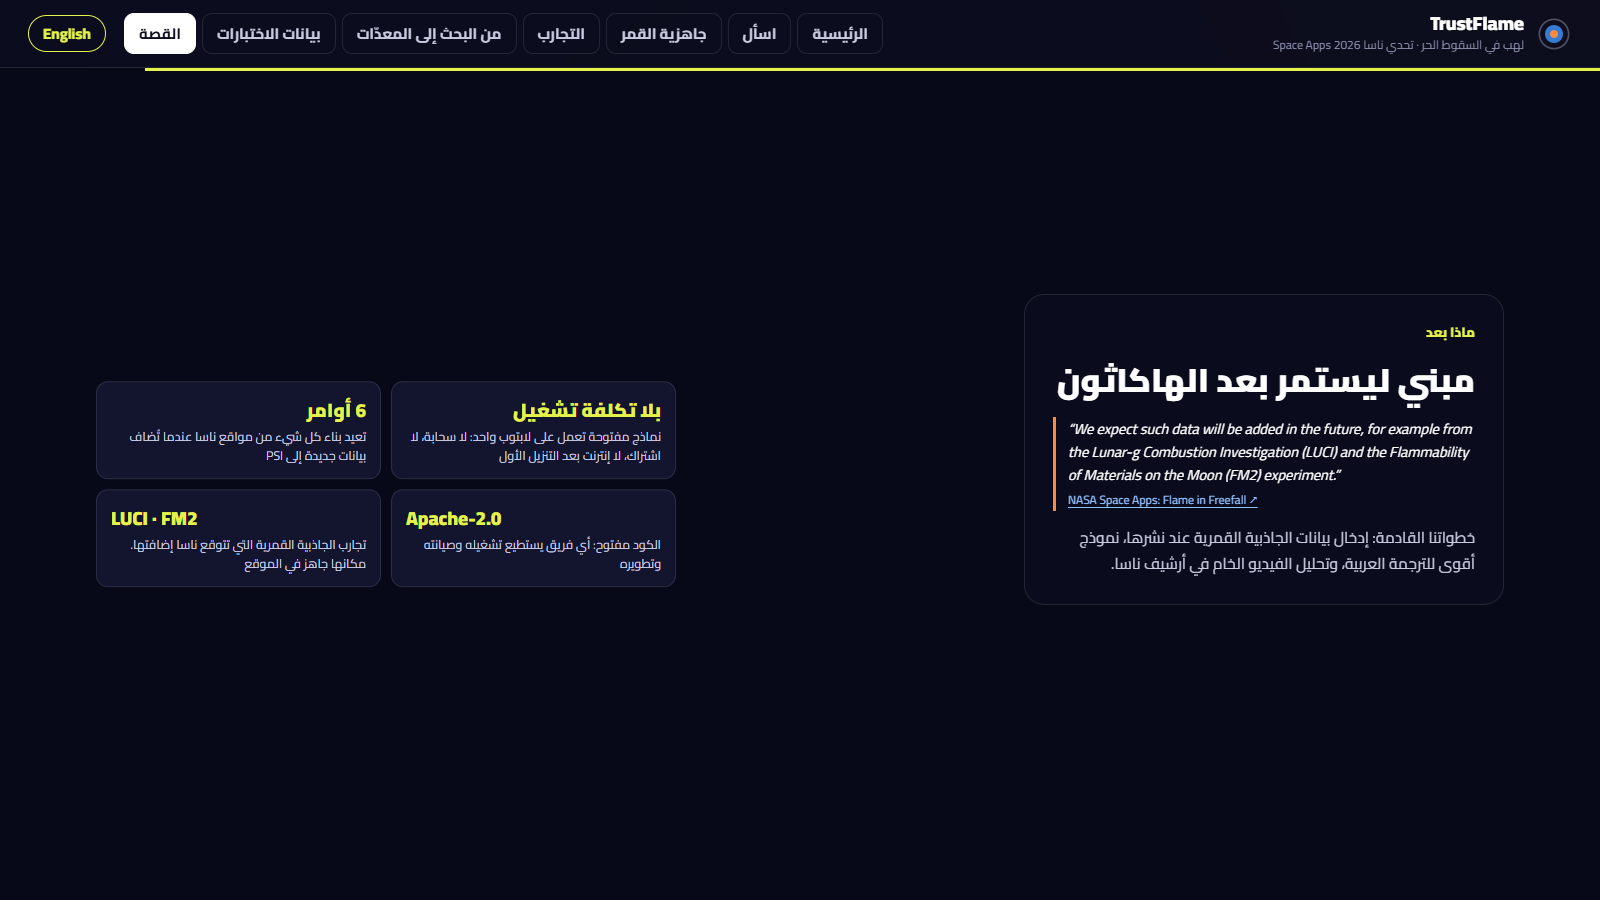
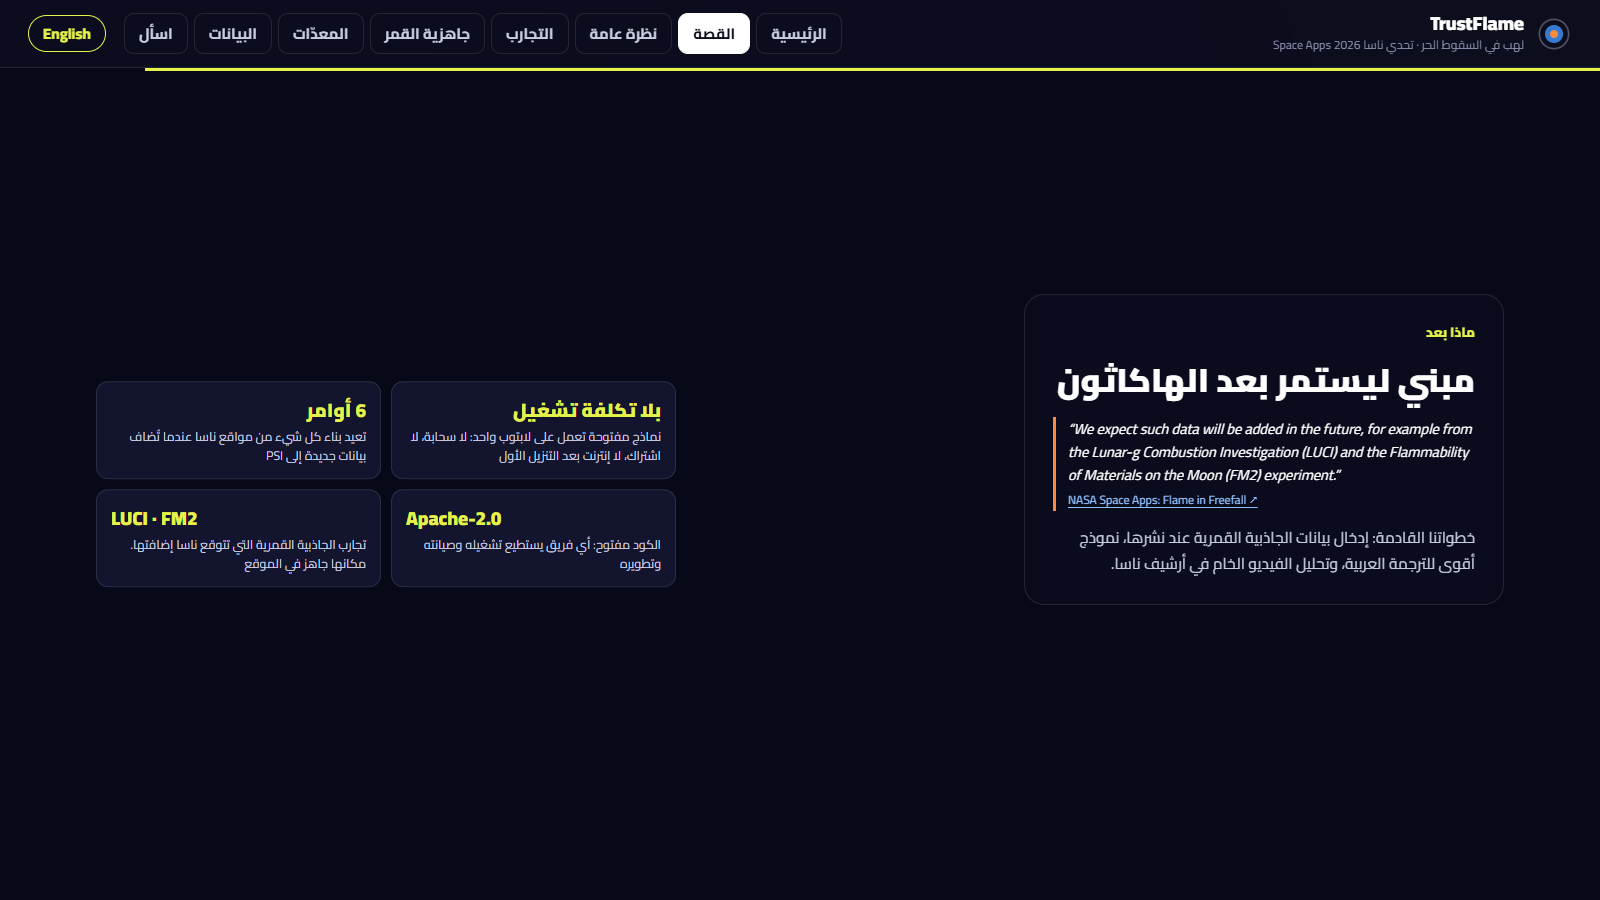
Simpler home page; tabs back in their earlier order
- home: one line ('a trusted search engine for NASA's space-fire archive'), the Ask box, three doors (compare, Moon readiness, Ask) and the test result
- tabs: Home, Story, Overview, Investigations, Moon readiness, Equipment, Data, Ask; shorter names so all fit

Changed region(s): [[0.0625, 0.0, 0.5625, 0.0622]]

diff --git a/web/home.js b/web/home.js
@@ -14,65 +14,33 @@ function askBox() {
   input.addEventListener("keydown", (e) => { if (e.key === "Enter") send(); });
   return h("div", { class: "home-ask" },
     h("div", { class: "home-ask-row" }, input, h("button", { class: "btn primary big", text: L("اسأل ناسا", "Ask NASA"), onclick: send })),
-    h("div", { class: "chips" }, SUGGEST[state.lang].slice(0, 4).map((q) => h("button", { class: "chip btn", text: q, onclick: () => askFromHome(q) }))));
+    h("div", { class: "chips" }, SUGGEST[state.lang].slice(0, 3).map((q) => h("button", { class: "chip btn", text: q, onclick: () => askFromHome(q) }))));
 }
 
 function render() {
   const root = document.getElementById("view-home");
-  const st = state.meta.stats;
   const solidMax = Math.max(...state.materials.filter((m) => m.phase === "solid" && m.o2_max != null).map((m) => m.o2_max));
   const evalTile = h("b", { class: "ltr", text: "…" });
-  const setEval = (e) => { evalTile.textContent = e && e.total ? `${e.passed} / ${e.total}` : "—"; };
+  const setEval = (e) => { evalTile.textContent = e && e.total ? `${e.passed}/${e.total}` : "—"; };
   if (evals) setEval(evals); else api("/api/eval").then((e) => { evals = e; setEval(e); }).catch(() => setEval(null));
-
-  const step = (n, title, text) => h("div", { class: "home-step" }, h("span", { class: "home-step-n ltr", text: String(n) }), h("div", {}, h("b", { text: title }), h("p", { text: text })));
-  const finding = (big, title, text, view, hot) => h("button", { class: "home-find" + (hot ? " hot" : ""), onclick: () => go(view) },
-    h("div", { class: "home-find-big ltr", text: big }), h("b", { text: title }), h("p", { text: text }), h("span", { class: "home-more", text: L("اعرف أكثر ←", "Learn more →") }));
-  const tile = (view, title, text) => h("button", { class: "home-tile", onclick: () => go(view) }, h("b", { text: title }), h("span", { text: text }));
+  const door = (n, view, title, text) => h("button", { class: "home-door", onclick: () => go(view) },
+    h("span", { class: "home-door-n ltr", text: String(n) }), h("b", { text: title }), h("span", { text: text }));
 
   mount(root,
-    // 1. the problem, in one line
     h("section", { class: "home-hero" },
       h("img", { class: "home-hero-img", src: "media/PSI-25_1.jpg", alt: "" }),
       h("div", { class: "home-hero-text" },
         h("div", { class: "kicker", text: L("تحدي ناسا Space Apps 2026 · لهب في السقوط الحر", "NASA Space Apps Challenge 2026 · Flame in Freefall") }),
-        h("h1", {}, L("القاعدة القمرية ستتنفس ", "A Moon base will breathe "), h("span", { class: "hot ltr", text: "30%" }), L(" أكسجين.", " oxygen."), h("br"),
-          L("ناسا اختبرت المواد حتى ", "NASA tested its materials only up to "), h("span", { class: "hot ltr", text: `${fmt(solidMax, 0)}%` }), L(" فقط.", ".")),
-        h("p", { class: "home-sub", text: L("النار تحب الأكسجين. وتجارب ناسا عن الحرائق كثيرة وصعبة البحث. TrustFlame يجعلها سهلة: اسأل بياناتها بلغتك، واحصل على جواب يفحص كل جملة وكل رقم.",
-          "Fire loves oxygen, and NASA's fire experiments are many and hard to search. TrustFlame makes them easy: ask NASA's data in your language and get an answer that checks every sentence and every number.") }),
+        h("h1", {}, L("محرّك بحث موثوق لأرشيف حرائق ناسا", "A trusted search engine for NASA's space-fire archive")),
+        h("p", { class: "home-sub", text: L(`${state.meta.stats.investigations} تجربة و${num0(state.meta.stats.test_rows)} اختبار عن النار في الفضاء، في مكان واحد. اسأل بلغتك، وكل جملة وكل رقم في الجواب يُفحص مقابل ملفات ناسا.`,
+          `${state.meta.stats.investigations} experiments and ${num0(state.meta.stats.test_rows)} tests on fire in space, in one place. Ask in your language; every sentence and number in the answer is checked against NASA's files.`) }),
         askBox()),
       h("div", { class: "home-credit ltr", text: "Photo: BASS-II flame test aboard the ISS, NASA PSI (PSI-25)" })),
-
-    // 2. how Ask works, in three steps
-    h("section", { class: "card home-how" },
-      h("h2", { text: L("كيف يجيب «اسأل»؟", "How does Ask answer?") }),
-      h("div", { class: "home-steps" },
-        step(1, L("يبحث في مصادر ناسا فقط", "Searches NASA's sources only"), L(`${st.investigations} تجربة و${num0(st.passages)} مقطعاً من نصوص ناسا.`, `${st.investigations} investigations and ${num0(st.passages)} passages of NASA text.`)),
-        step(2, L("يكتب جواباً منها", "Writes an answer from them"), L("نموذج ذكاء اصطناعي يعمل على الحاسوب، بدون إنترنت.", "An AI model that runs on the laptop, offline.")),
-        step(3, L("يفحص كل جملة وكل رقم", "Checks every sentence and number"), L("الجملة بلا دليل تُحذف، وإذا لم يجد دليلاً يقول: لا أعرف.", "A sentence without evidence is removed; with no evidence it says: I don't know."))),
-      h("div", { class: "home-trust" }, evalTile, h("span", { text: L("أسئلة كتبها الفريق من مصادر التحدي أجاب عنها بشكل صحيح. النتائج كلها في صفحة «اسأل».", "team-written questions from the challenge sources answered correctly. All results are on the Ask page.") }))),
-
-    // 3. what we found
-    h("section", {},
-      h("h2", { class: "home-h2", text: L("ماذا وجدنا في بيانات ناسا؟", "What did we find in NASA's data?") }),
-      h("div", { class: "home-finds" },
-        finding(`${fmt(solidMax, 1)}% ≠ 30%`, L("لم تُختبر أي عيّنة صلبة حقيقية في جو القمر", "No real solid sample was tested in Moon-base air"),
-          L("القماش والبلاستيك اختُبرت حتى 22.2% أكسجين فقط، ولا مرة بضغط منخفض. أقرب شيء: تجربة BRE بحارقات غاز تقلّد المواد الصلبة.", "Fabrics and plastics were tested only up to 22.2% oxygen, never at low pressure. The closest: BRE, gas burners that emulate solids."), "moon", true),
-        finding("BRE", L("إيقاف التهوية قد لا يطفئ الحريق", "Shutting off ventilation may not put a fire out"),
-          L("في أكسجين عالٍ استمر الاحتراق بدون تدفق هواء، بينما انطفأ عند 21%. ناسا تصف النتائج بأنها أولية.", "In high oxygen, burning went on with no air flow, while it went out at 21%. NASA calls the results preliminary."), "equipment", false),
-        finding("0", L("لا بيانات بجاذبية القمر بعد", "No lunar-gravity data yet"),
-          L("كل التجارب في محطة الفضاء أو على الأرض. ناسا تتوقع إضافة تجارب LUCI وFM2.", "Every test ran on the space station or on Earth. NASA expects to add LUCI and FM2."), "story", false))),
-
-    // 4. where to go next
-    h("section", {},
-      h("h2", { class: "home-h2", text: L("استكشف", "Explore") }),
-      h("div", { class: "home-tiles" },
-        tile("moon", L("جاهزية القمر", "Moon readiness"), L("اختاري الأكسجين والضغط، وشوفي ماذا اختبرت ناسا وماذا ينقص.", "Pick an oxygen level and pressure; see what NASA tested and what is missing.")),
-        tile("investigations", L("التجارب", "Investigations"), L(`${st.investigations} تجربة مرتّبة من 100: أيها يهم القمر أو المحطة أكثر.`, `${st.investigations} investigations scored out of 100 for the Moon, the station and more.`)),
-        tile("equipment", L("من البحث إلى المعدّات", "Research to equipment"), L("كيف ساعدت التجارب كواشف الدخان والإطفاء واختيار المواد.", "How the experiments shaped smoke detectors, suppression and material choice.")),
-        tile("data", L("بيانات الاختبارات", "Test data"), L(`كل أرقام ناسا: ${num0(st.test_rows)} اختبار، رسم وتنزيل.`, `All of NASA's numbers: ${num0(st.test_rows)} tests, plotted and downloadable.`)),
-        tile("story", L("القصة", "The story"), L("القصة كاملة بالتمرير: من Apollo 1 إلى القمر.", "The full story, by scrolling: from Apollo 1 to the Moon.")))),
-  );
+    h("div", { class: "home-doors" },
+      door(1, "investigations", L("قارن التجارب", "Compare the experiments"), L("التجارب الأربع والعشرون مرتّبة من 100، مع تنزيل البيانات.", "All 24 ranked out of 100, with data to download.")),
+      door(2, "moon", L("جاهزية القمر", "Moon readiness"), L(`ماذا اختُبر عند 30% أكسجين؟ المواد الصلبة توقفت عند ${fmt(solidMax, 1)}%.`, `What was tested at 30% oxygen? Solid materials stop at ${fmt(solidMax, 1)}%.`)),
+      door(3, "ask", L("اسأل المساعد الموثوق", "Ask the verified assistant"), L("جواب من مصادر ناسا فقط، وإذا لم يجد دليلاً يقول: لا أعرف.", "Answers from NASA sources only; with no evidence it says: I don't know."))),
+    h("p", { class: "home-trust" }, evalTile, h("span", { text: L("أسئلة كتبها الفريق من مصادر التحدي أجاب عنها بشكل صحيح.", "team-written questions from the challenge sources answered correctly.") })));
 }
 const num0 = (v) => Number(v).toLocaleString("en-US");
 

diff --git a/web/styles.css b/web/styles.css
@@ -473,3 +473,12 @@ main:has(> #view-story:not([hidden])) { max-width: none; padding: 0; }
 .eq-more[open] summary { margin-bottom: 8px; }
 .eq-lessons { display: grid; grid-template-columns: repeat(3, minmax(0, 1fr)); gap: 16px; }
 @media (max-width: 1000px) { .eq-lessons { grid-template-columns: minmax(0, 1fr); } }
+
+/* home: three doors */
+.home-doors { display: grid; grid-template-columns: repeat(3, minmax(0, 1fr)); gap: 14px; }
+@media (max-width: 1000px) { .home-doors { grid-template-columns: minmax(0, 1fr); } }
+.home-door { text-align: start; display: grid; gap: 6px; align-content: start; background: var(--surface); border: 1px solid var(--border); border-radius: 16px; padding: 18px 20px; cursor: pointer; color: var(--text); font: inherit; }
+.home-door:hover { border-color: var(--lime); }
+.home-door-n { width: 32px; height: 32px; border-radius: 50%; display: grid; place-items: center; background: var(--lime); color: var(--lime-ink); font-weight: 900; }
+.home-door b { font-size: 19px; font-weight: 900; } .home-door span:last-child { color: var(--text-2); font-size: 14.5px; }
+p.home-trust { justify-content: center; }

diff --git a/web/index.html b/web/index.html
@@ -20,12 +20,13 @@
     </div>
     <nav class="tabs" role="tablist">
       <button role="tab" data-view="home" data-i18n="tab_home"></button>
-      <button role="tab" data-view="ask" data-i18n="tab_ask"></button>
-      <button role="tab" data-view="moon" data-i18n="tab_moon"></button>
+      <button role="tab" data-view="story" data-i18n="tab_story"></button>
+      <button role="tab" data-view="overview" data-i18n="tab_overview"></button>
       <button role="tab" data-view="investigations" data-i18n="tab_investigations"></button>
+      <button role="tab" data-view="moon" data-i18n="tab_moon"></button>
       <button role="tab" data-view="equipment" data-i18n="tab_equipment"></button>
       <button role="tab" data-view="data" data-i18n="tab_data"></button>
-      <button role="tab" data-view="story" data-i18n="tab_story"></button>
+      <button role="tab" data-view="ask" data-i18n="tab_ask"></button>
     </nav>
     <button id="lang" class="lang-btn" type="button"></button>
   </header>

diff --git a/web/app.js b/web/app.js
@@ -19,7 +19,7 @@ const CHROME = {
   brand_sub: ["لهب في السقوط الحر · تحدي ناسا Space Apps 2026", "Flame in Freefall · NASA Space Apps Challenge 2026"],
   tab_overview: ["نظرة عامة", "Overview"], tab_investigations: ["التجارب", "Investigations"], tab_moon: ["جاهزية القمر", "Moon readiness"],
   tab_story: ["القصة", "Story"], tab_home: ["الرئيسية", "Home"],
-  tab_equipment: ["من البحث إلى المعدّات", "Research to equipment"], tab_data: ["بيانات الاختبارات", "Test data"], tab_ask: ["اسأل", "Ask"],
+  tab_equipment: ["المعدّات", "Equipment"], tab_data: ["البيانات", "Data"], tab_ask: ["اسأل", "Ask"],
   scenario_label: ["بيئة الطاقم", "Crew environment"],
 };
 const PART_COLORS = { directness: "var(--s1)", semantic: "var(--s2)", conditions: "var(--s3)", data: "var(--s4)" };
